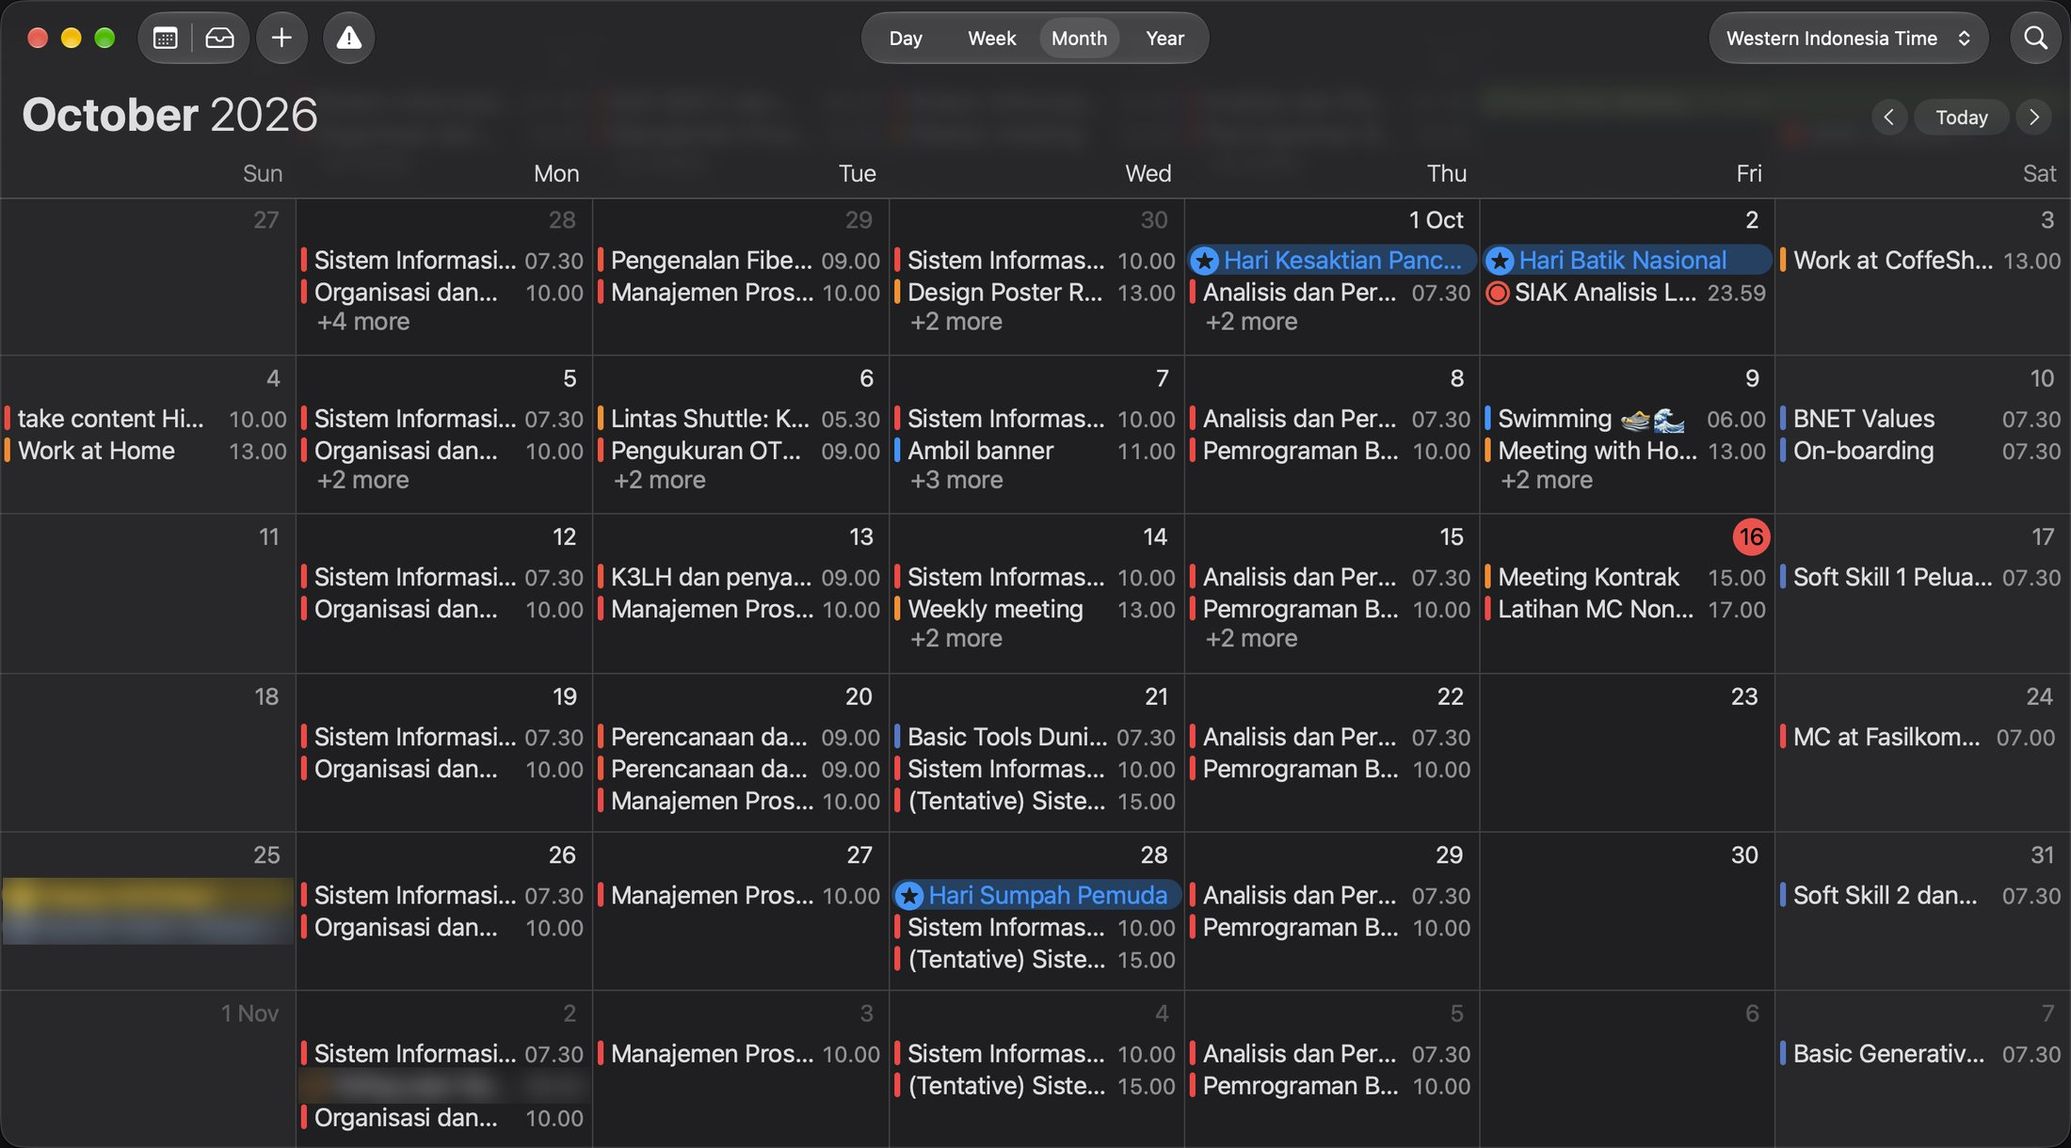
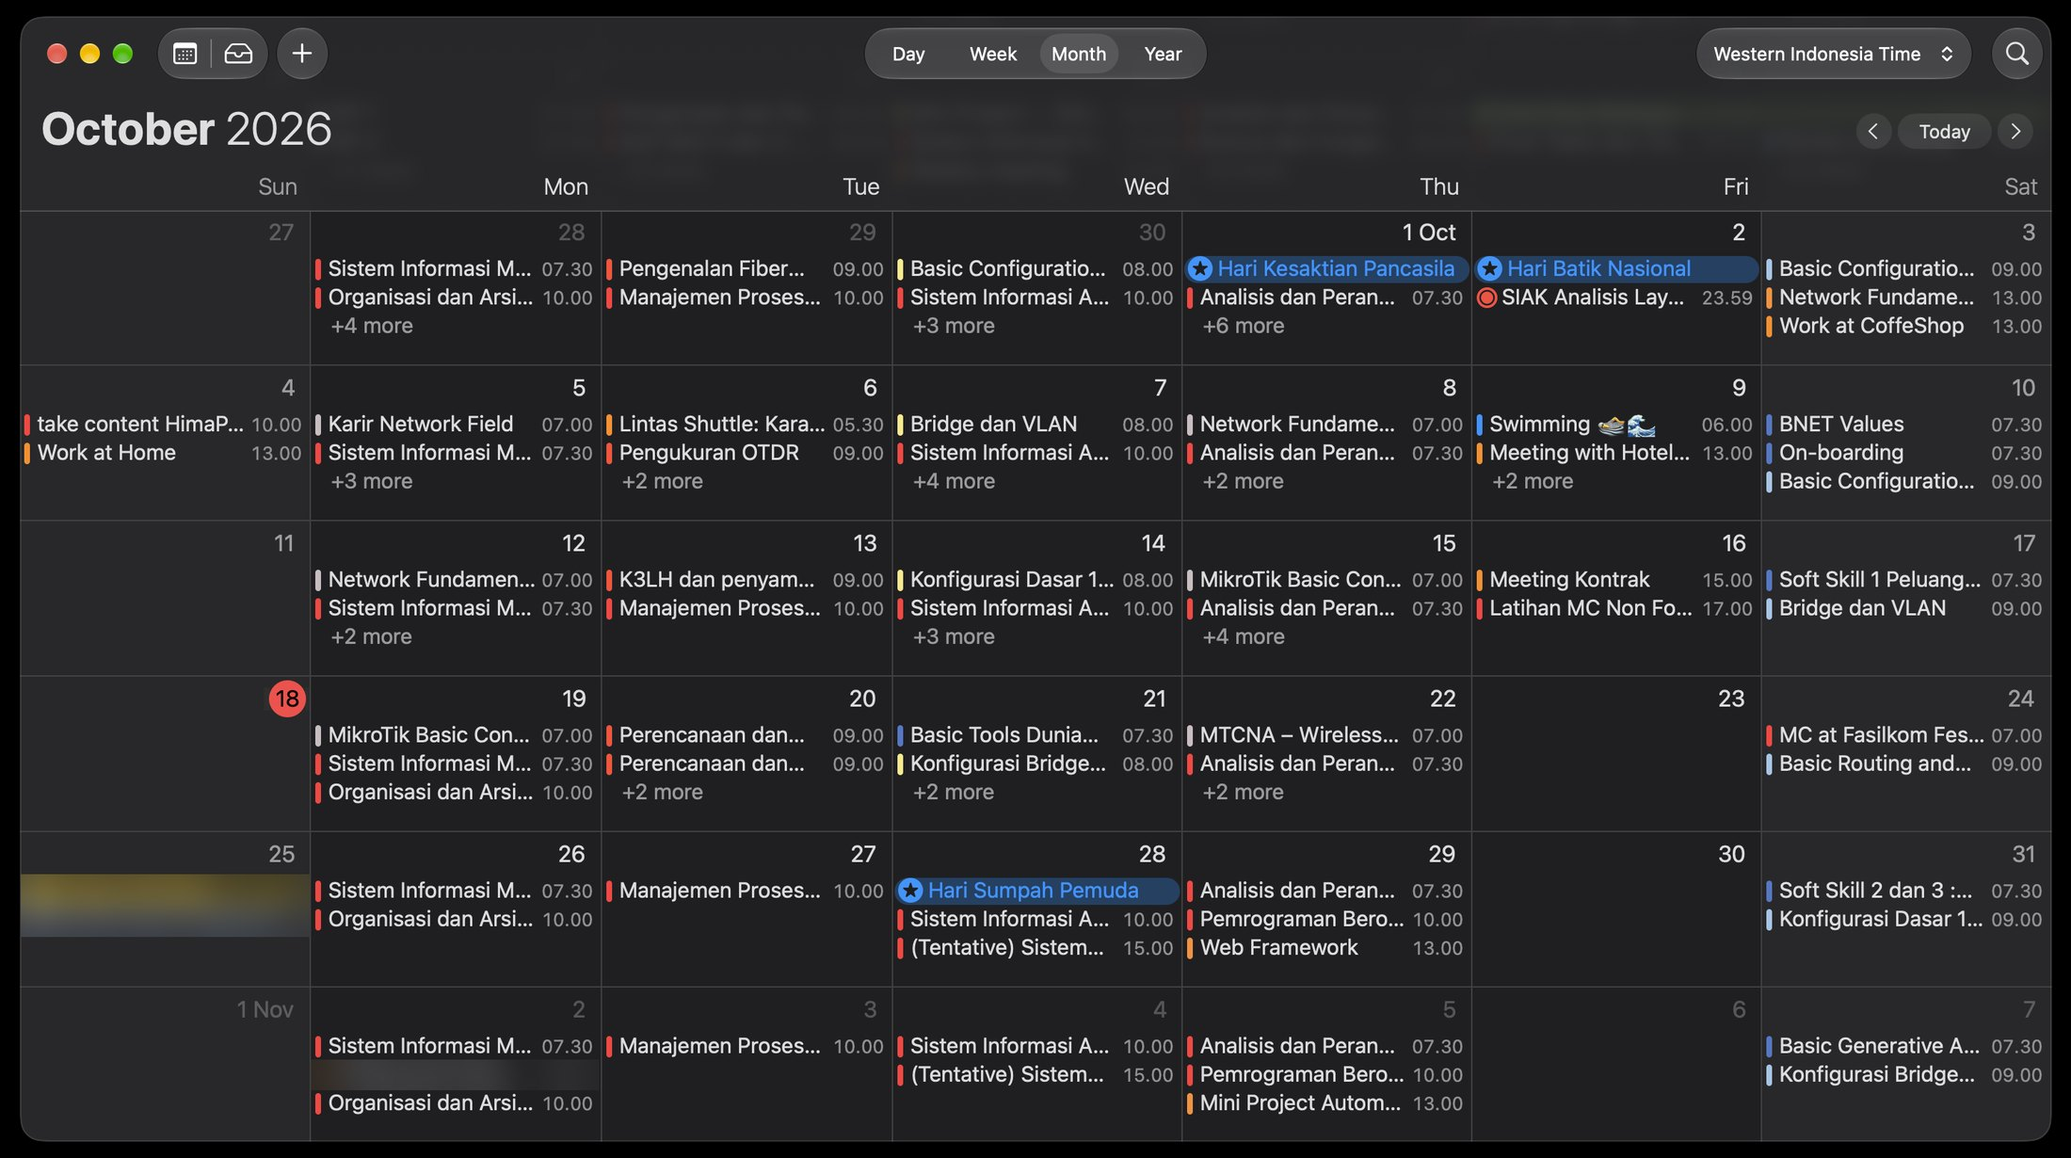
Pakai kalender baru dan samakan warna kegiatan dengan kalender asli
- 89 item dari screenshot terbaru (termasuk Konfigurasi, MikroTik, Web Framework, dll) dengan warna asli: merah, oranye, kuning, putih, biru, biru muda
- Item pribadi (ulang tahun, ToPayLater) tetap diblur di kalender dan di gambar lightbox
- Legend jadi satu: merah = jadwal kampus, yang berkilau

Claude-Session: https://claude.ai/code/session_013Twnaec511EJFNemk4TEjW

Changed region(s): [[0.0, 0.0, 1.0, 1.0], [0.2473, 0.4361, 0.2782, 0.4672]]

diff --git a/index.html b/index.html
@@ -145,8 +145,8 @@
             <div class="k">01</div>
             <h3>Semua yang dilakuin di hari H sudah direncanakan.</h3>
             <p>Memang ribet, but it works for me. Saya jadi tetap bisa jalan paralel antara prioritas utama saya, yaitu kuliah, dengan kerjaan, project, ngonten, dan keorganisasian.</p>
-            <div class="week"><span class="k1 shine">Kuliah</span><span class="k2">Kerja</span><span class="k3">Event</span><span class="k4">Olahraga</span></div>
-            <p class="planhint">Yang berkilau itu jadwal ngampus, prioritas utama saya.</p>
+            <div class="week"><span class="c-red shine">Kampus</span></div>
+            <p class="planhint">Yang merah dan berkilau itu jadwal ngampus, prioritas utama saya.</p>
           </div>
       <div class="calstage" id="calStage">
         <div class="calbar">
@@ -157,47 +157,47 @@
           <div class="dow" aria-hidden="true"><span>Sun</span><span>Mon</span><span>Tue</span><span>Wed</span><span>Thu</span><span>Fri</span><span>Sat</span></div>
           <div class="days">
             <div class="cell out" data-i="0"><span class="dn">27</span></div>
-            <div class="cell out" data-i="1"><span class="dn">28</span><span class="ev k1"><b>Sistem Informasi…</b><time>07.30</time></span><span class="ev k1"><b>Organisasi dan…</b><time>10.00</time></span><span class="ev more">+4 more</span></div>
-            <div class="cell out" data-i="2"><span class="dn">29</span><span class="ev k1"><b>Pengenalan Fibe…</b><time>09.00</time></span><span class="ev k1"><b>Manajemen Pros…</b><time>10.00</time></span></div>
-            <div class="cell out" data-i="3"><span class="dn">30</span><span class="ev k1"><b>Sistem Informasi…</b><time>10.00</time></span><span class="ev k2"><b>Design Poster R…</b><time>13.00</time></span><span class="ev more">+2 more</span></div>
-            <div class="cell" data-i="4"><span class="dn">1</span><span class="ev lb0"><b>Hari Kesaktian Pancasila</b></span><span class="ev k1"><b>Analisis dan Per…</b><time>07.30</time></span><span class="ev more">+2 more</span></div>
-            <div class="cell" data-i="5"><span class="dn">2</span><span class="ev lb0"><b>Hari Batik Nasional</b></span><span class="ev k1"><b>SIAK Analisis L…</b><time>23.59</time></span></div>
-            <div class="cell" data-i="6"><span class="dn">3</span><span class="ev k2"><b>Work at CoffeeSh…</b><time>13.00</time></span></div>
-            <div class="cell" data-i="7"><span class="dn">4</span><span class="ev k2"><b>take content Hi…</b><time>10.00</time></span><span class="ev k2"><b>Work at Home</b><time>13.00</time></span></div>
-            <div class="cell" data-i="8"><span class="dn">5</span><span class="ev k1"><b>Sistem Informasi…</b><time>07.30</time></span><span class="ev k1"><b>Organisasi dan…</b><time>10.00</time></span><span class="ev more">+2 more</span></div>
-            <div class="cell" data-i="9"><span class="dn">6</span><span class="ev k2"><b>Lintas Shuttle: K…</b><time>05.30</time></span><span class="ev k1"><b>Pengukuran OT…</b><time>09.00</time></span><span class="ev more">+2 more</span></div>
-            <div class="cell" data-i="10"><span class="dn">7</span><span class="ev k1"><b>Sistem Informasi…</b><time>10.00</time></span><span class="ev k3"><b>Ambil banner</b><time>11.00</time></span><span class="ev more">+3 more</span></div>
-            <div class="cell" data-i="11"><span class="dn">8</span><span class="ev k1"><b>Analisis dan Per…</b><time>07.30</time></span><span class="ev k1"><b>Pemrograman B…</b><time>10.00</time></span></div>
-            <div class="cell" data-i="12"><span class="dn">9</span><span class="ev k4"><b>Swimming 🌊</b><time>06.00</time></span><span class="ev k2"><b>Meeting with Ho…</b><time>13.00</time></span><span class="ev more">+2 more</span></div>
-            <div class="cell" data-i="13"><span class="dn">10</span><span class="ev k3"><b>BNET Values</b><time>07.30</time></span><span class="ev k3"><b>On-boarding</b><time>07.30</time></span></div>
+            <div class="cell out" data-i="1"><span class="dn">28</span><span class="ev c-red"><b>Sistem Informasi M…</b><time>07.30</time></span><span class="ev c-red"><b>Organisasi dan Arsi…</b><time>10.00</time></span><span class="ev more">+4 more</span></div>
+            <div class="cell out" data-i="2"><span class="dn">29</span><span class="ev c-red"><b>Pengenalan Fiber…</b><time>09.00</time></span><span class="ev c-red"><b>Manajemen Proses…</b><time>10.00</time></span></div>
+            <div class="cell out" data-i="3"><span class="dn">30</span><span class="ev c-yellow"><b>Basic Configuratio…</b><time>08.00</time></span><span class="ev c-red"><b>Sistem Informasi A…</b><time>10.00</time></span><span class="ev more">+3 more</span></div>
+            <div class="cell" data-i="4"><span class="dn">1</span><span class="ev lb0"><b>Hari Kesaktian Pancasila</b></span><span class="ev c-red"><b>Analisis dan Peran…</b><time>07.30</time></span><span class="ev more">+6 more</span></div>
+            <div class="cell" data-i="5"><span class="dn">2</span><span class="ev lb0"><b>Hari Batik Nasional</b></span><span class="ev c-red"><b>SIAK Analisis Lay…</b><time>23.59</time></span></div>
+            <div class="cell" data-i="6"><span class="dn">3</span><span class="ev c-lblue"><b>Basic Configuratio…</b><time>09.00</time></span><span class="ev c-orange"><b>Network Fundame…</b><time>13.00</time></span><span class="ev c-orange"><b>Work at CoffeShop</b><time>13.00</time></span></div>
+            <div class="cell" data-i="7"><span class="dn">4</span><span class="ev c-red"><b>take content HimaP…</b><time>10.00</time></span><span class="ev c-orange"><b>Work at Home</b><time>13.00</time></span></div>
+            <div class="cell" data-i="8"><span class="dn">5</span><span class="ev c-white"><b>Karir Network Field</b><time>07.00</time></span><span class="ev c-red"><b>Sistem Informasi M…</b><time>07.30</time></span><span class="ev more">+3 more</span></div>
+            <div class="cell" data-i="9"><span class="dn">6</span><span class="ev c-orange"><b>Lintas Shuttle: Kara…</b><time>05.30</time></span><span class="ev c-red"><b>Pengukuran OTDR</b><time>09.00</time></span><span class="ev more">+2 more</span></div>
+            <div class="cell" data-i="10"><span class="dn">7</span><span class="ev c-yellow"><b>Bridge dan VLAN</b><time>08.00</time></span><span class="ev c-red"><b>Sistem Informasi A…</b><time>10.00</time></span><span class="ev more">+4 more</span></div>
+            <div class="cell" data-i="11"><span class="dn">8</span><span class="ev c-white"><b>Network Fundame…</b><time>07.00</time></span><span class="ev c-red"><b>Analisis dan Peran…</b><time>07.30</time></span><span class="ev more">+2 more</span></div>
+            <div class="cell" data-i="12"><span class="dn">9</span><span class="ev c-blue"><b>Swimming 🌊</b><time>06.00</time></span><span class="ev c-orange"><b>Meeting with Hotel…</b><time>13.00</time></span><span class="ev more">+2 more</span></div>
+            <div class="cell" data-i="13"><span class="dn">10</span><span class="ev c-blue"><b>BNET Values</b><time>07.30</time></span><span class="ev c-blue"><b>On-boarding</b><time>07.30</time></span><span class="ev c-lblue"><b>Basic Configuratio…</b><time>09.00</time></span></div>
             <div class="cell" data-i="14"><span class="dn">11</span></div>
-            <div class="cell" data-i="15"><span class="dn">12</span><span class="ev k1"><b>Sistem Informasi…</b><time>07.30</time></span><span class="ev k1"><b>Organisasi dan…</b><time>10.00</time></span></div>
-            <div class="cell" data-i="16"><span class="dn">13</span><span class="ev k1"><b>K3LH dan penya…</b><time>09.00</time></span><span class="ev k1"><b>Manajemen Pros…</b><time>10.00</time></span></div>
-            <div class="cell" data-i="17"><span class="dn">14</span><span class="ev k1"><b>Sistem Informasi…</b><time>10.00</time></span><span class="ev k2"><b>Weekly meeting</b><time>13.00</time></span><span class="ev more">+2 more</span></div>
-            <div class="cell" data-i="18"><span class="dn">15</span><span class="ev k1"><b>Analisis dan Per…</b><time>07.30</time></span><span class="ev k1"><b>Pemrograman B…</b><time>10.00</time></span><span class="ev more">+2 more</span></div>
-            <div class="cell" data-i="19"><span class="dn">16</span><span class="ev k2"><b>Meeting Kontrak</b><time>15.00</time></span><span class="ev k3"><b>Latihan MC Non…</b><time>17.00</time></span></div>
-            <div class="cell" data-i="20"><span class="dn">17</span><span class="ev k3"><b>Soft Skill 1 Pelua…</b><time>07.30</time></span></div>
+            <div class="cell" data-i="15"><span class="dn">12</span><span class="ev c-white"><b>Network Fundame…</b><time>07.00</time></span><span class="ev c-red"><b>Sistem Informasi M…</b><time>07.30</time></span><span class="ev more">+2 more</span></div>
+            <div class="cell" data-i="16"><span class="dn">13</span><span class="ev c-red"><b>K3LH dan penyam…</b><time>09.00</time></span><span class="ev c-red"><b>Manajemen Proses…</b><time>10.00</time></span></div>
+            <div class="cell" data-i="17"><span class="dn">14</span><span class="ev c-yellow"><b>Konfigurasi Dasar 1…</b><time>08.00</time></span><span class="ev c-red"><b>Sistem Informasi A…</b><time>10.00</time></span><span class="ev more">+3 more</span></div>
+            <div class="cell" data-i="18"><span class="dn">15</span><span class="ev c-white"><b>MikroTik Basic Con…</b><time>07.00</time></span><span class="ev c-red"><b>Analisis dan Peran…</b><time>07.30</time></span><span class="ev more">+4 more</span></div>
+            <div class="cell" data-i="19"><span class="dn">16</span><span class="ev c-orange"><b>Meeting Kontrak</b><time>15.00</time></span><span class="ev c-red"><b>Latihan MC Non Fo…</b><time>17.00</time></span></div>
+            <div class="cell" data-i="20"><span class="dn">17</span><span class="ev c-blue"><b>Soft Skill 1 Peluang…</b><time>07.30</time></span><span class="ev c-lblue"><b>Bridge dan VLAN</b><time>09.00</time></span></div>
             <div class="cell" data-i="21"><span class="dn">18</span></div>
-            <div class="cell" data-i="22"><span class="dn">19</span><span class="ev k1"><b>Sistem Informasi…</b><time>07.30</time></span><span class="ev k1"><b>Organisasi dan…</b><time>10.00</time></span></div>
-            <div class="cell" data-i="23"><span class="dn">20</span><span class="ev k1"><b>Perencanaan da…</b><time>09.00</time></span><span class="ev k1"><b>Perencanaan da…</b><time>09.00</time></span><span class="ev k1"><b>Manajemen Pros…</b><time>10.00</time></span></div>
-            <div class="cell" data-i="24"><span class="dn">21</span><span class="ev k3"><b>Basic Tools Duni…</b><time>07.30</time></span><span class="ev k1"><b>Sistem Informasi…</b><time>10.00</time></span><span class="ev k1"><b>(Tentative) Siste…</b><time>15.00</time></span></div>
-            <div class="cell" data-i="25"><span class="dn">22</span><span class="ev k1"><b>Analisis dan Per…</b><time>07.30</time></span><span class="ev k1"><b>Pemrograman B…</b><time>10.00</time></span></div>
+            <div class="cell" data-i="22"><span class="dn">19</span><span class="ev c-white"><b>MikroTik Basic Con…</b><time>07.00</time></span><span class="ev c-red"><b>Sistem Informasi M…</b><time>07.30</time></span><span class="ev c-red"><b>Organisasi dan Arsi…</b><time>10.00</time></span></div>
+            <div class="cell" data-i="23"><span class="dn">20</span><span class="ev c-red"><b>Perencanaan dan…</b><time>09.00</time></span><span class="ev c-red"><b>Perencanaan dan…</b><time>09.00</time></span><span class="ev more">+2 more</span></div>
+            <div class="cell" data-i="24"><span class="dn">21</span><span class="ev c-blue"><b>Basic Tools Dunia…</b><time>07.30</time></span><span class="ev c-yellow"><b>Konfigurasi Bridge…</b><time>08.00</time></span><span class="ev more">+2 more</span></div>
+            <div class="cell" data-i="25"><span class="dn">22</span><span class="ev c-white"><b>MTCNA – Wireless…</b><time>07.00</time></span><span class="ev c-red"><b>Analisis dan Peran…</b><time>07.30</time></span><span class="ev more">+2 more</span></div>
             <div class="cell" data-i="26"><span class="dn">23</span></div>
-            <div class="cell" data-i="27"><span class="dn">24</span><span class="ev k3"><b>MC at Fasilkom…</b><time>07.00</time></span></div>
-            <div class="cell" data-i="28"><span class="dn">25</span><span class="ev k2 bl" aria-hidden="true"><b>Kegiatan pribadi</b></span><span class="ev k1 bl" aria-hidden="true"><b>Kegiatan pribadi</b></span></div>
-            <div class="cell" data-i="29"><span class="dn">26</span><span class="ev k1"><b>Sistem Informasi…</b><time>07.30</time></span><span class="ev k1"><b>Organisasi dan…</b><time>10.00</time></span></div>
-            <div class="cell" data-i="30"><span class="dn">27</span><span class="ev k1"><b>Manajemen Pros…</b><time>10.00</time></span></div>
-            <div class="cell" data-i="31"><span class="dn">28</span><span class="ev lb0"><b>Hari Sumpah Pemuda</b></span><span class="ev k1"><b>Sistem Informasi…</b><time>10.00</time></span><span class="ev k1"><b>(Tentative) Siste…</b><time>15.00</time></span></div>
-            <div class="cell" data-i="32"><span class="dn">29</span><span class="ev k1"><b>Analisis dan Per…</b><time>07.30</time></span><span class="ev k1"><b>Pemrograman B…</b><time>10.00</time></span></div>
+            <div class="cell" data-i="27"><span class="dn">24</span><span class="ev c-red"><b>MC at Fasilkom Fes…</b><time>07.00</time></span><span class="ev c-lblue"><b>Basic Routing and…</b><time>09.00</time></span></div>
+            <div class="cell" data-i="28"><span class="dn">25</span><span class="ev c-yellow bl" aria-hidden="true"><b>Kegiatan pribadi</b></span><span class="ev c-lblue bl" aria-hidden="true"><b>Kegiatan pribadi</b></span></div>
+            <div class="cell" data-i="29"><span class="dn">26</span><span class="ev c-red"><b>Sistem Informasi M…</b><time>07.30</time></span><span class="ev c-red"><b>Organisasi dan Arsi…</b><time>10.00</time></span></div>
+            <div class="cell" data-i="30"><span class="dn">27</span><span class="ev c-red"><b>Manajemen Proses…</b><time>10.00</time></span></div>
+            <div class="cell" data-i="31"><span class="dn">28</span><span class="ev lb0"><b>Hari Sumpah Pemuda</b></span><span class="ev c-red"><b>Sistem Informasi A…</b><time>10.00</time></span><span class="ev c-red"><b>(Tentative) Sistem…</b><time>15.00</time></span></div>
+            <div class="cell" data-i="32"><span class="dn">29</span><span class="ev c-red"><b>Analisis dan Peran…</b><time>07.30</time></span><span class="ev c-red"><b>Pemrograman Bero…</b><time>10.00</time></span><span class="ev c-orange"><b>Web Framework</b><time>13.00</time></span></div>
             <div class="cell" data-i="33"><span class="dn">30</span></div>
-            <div class="cell" data-i="34"><span class="dn">31</span><span class="ev k3"><b>Soft Skill 2 dan…</b><time>07.30</time></span></div>
+            <div class="cell" data-i="34"><span class="dn">31</span><span class="ev c-blue"><b>Soft Skill 2 dan 3 :…</b><time>07.30</time></span><span class="ev c-lblue"><b>Konfigurasi Dasar 1…</b><time>09.00</time></span></div>
             <div class="cell out" data-i="35"><span class="dn">1 Nov</span></div>
-            <div class="cell out" data-i="36"><span class="dn">2</span><span class="ev k1"><b>Sistem Informasi…</b><time>07.30</time></span><span class="ev k2 bl" aria-hidden="true"><b>Kegiatan pribadi</b></span><span class="ev k1"><b>Organisasi dan…</b><time>10.00</time></span></div>
-            <div class="cell out" data-i="37"><span class="dn">3</span><span class="ev k1"><b>Manajemen Pros…</b><time>10.00</time></span></div>
-            <div class="cell out" data-i="38"><span class="dn">4</span><span class="ev k1"><b>Sistem Informasi…</b><time>10.00</time></span><span class="ev k1"><b>(Tentative) Siste…</b><time>15.00</time></span></div>
-            <div class="cell out" data-i="39"><span class="dn">5</span><span class="ev k1"><b>Analisis dan Per…</b><time>07.30</time></span><span class="ev k1"><b>Pemrograman B…</b><time>10.00</time></span></div>
+            <div class="cell out" data-i="36"><span class="dn">2</span><span class="ev c-red"><b>Sistem Informasi M…</b><time>07.30</time></span><span class="ev c-orange bl" aria-hidden="true"><b>Kegiatan pribadi</b></span><span class="ev c-red"><b>Organisasi dan Arsi…</b><time>10.00</time></span></div>
+            <div class="cell out" data-i="37"><span class="dn">3</span><span class="ev c-red"><b>Manajemen Proses…</b><time>10.00</time></span></div>
+            <div class="cell out" data-i="38"><span class="dn">4</span><span class="ev c-red"><b>Sistem Informasi A…</b><time>10.00</time></span><span class="ev c-red"><b>(Tentative) Sistem…</b><time>15.00</time></span></div>
+            <div class="cell out" data-i="39"><span class="dn">5</span><span class="ev c-red"><b>Analisis dan Peran…</b><time>07.30</time></span><span class="ev c-red"><b>Pemrograman Bero…</b><time>10.00</time></span><span class="ev c-orange"><b>Mini Project Autom…</b><time>13.00</time></span></div>
             <div class="cell out" data-i="40"><span class="dn">6</span></div>
-            <div class="cell out" data-i="41"><span class="dn">7</span><span class="ev k3"><b>Basic Generativ…</b><time>07.30</time></span></div>
+            <div class="cell out" data-i="41"><span class="dn">7</span><span class="ev c-blue"><b>Basic Generative A…</b><time>07.30</time></span><span class="ev c-lblue"><b>Konfigurasi Bridge…</b><time>09.00</time></span></div>
           </div>
         </div>
       </div>

diff --git a/css/style.css b/css/style.css
@@ -937,16 +937,47 @@ h3 {
   }
 }
 
+/* warna kegiatan disamakan persis dengan kalender asli */
+.c-red {
+  background: #ed4a44;
+  color: #fff;
+}
+
+.c-orange {
+  background: #f19134;
+  color: #1d1d1f;
+}
+
+.c-yellow {
+  background: #f8e990;
+  color: #1d1d1f;
+}
+
+.c-white {
+  background: #c8bebf;
+  color: #1d1d1f;
+}
+
+.c-blue {
+  background: #5777c3;
+  color: #fff;
+}
+
+.c-lblue {
+  background: #a7c5e4;
+  color: #1d1d1f;
+}
+
 /* shine di jadwal ngampus (kuliah) = prioritas utama; muncul setelah kalendernya rapi */
-.k1.shine,
-.ev.k1 {
+.shine,
+.ev.c-red {
   position: relative;
   overflow: hidden;
   box-shadow: 0 0 10px rgba(80, 125, 255, calc((var(--cp, 1) - .9) * 5));
 }
 
-.k1.shine::after,
-.ev.k1::after {
+.shine::after,
+.ev.c-red::after {
   content: "";
   position: absolute;
   inset: 0;
@@ -965,7 +996,7 @@ h3 {
 .cell:nth-child(7n+5) .ev::after { animation-delay: .6s; }
 .cell:nth-child(7n+6) .ev::after { animation-delay: .75s; }
 .cell:nth-child(7n) .ev::after { animation-delay: .9s; }
-.ev.k1 + .ev.k1::after { animation-delay: .2s; }
+.ev.c-red + .ev.c-red::after { animation-delay: .2s; }
 
 @keyframes shine {
   0%, 55% {
@@ -1097,8 +1128,8 @@ h3 {
 }
 
 .ev.lb0 {
-  background: rgba(110, 150, 255, .2);
-  color: #a9c1ff;
+  background: #243d63;
+  color: #4a90f0;
 }
 
 .ev.more {
@@ -1910,8 +1941,8 @@ h3 {
     opacity: 1
   }
 
-  .k1.shine::after,
-  .ev.k1::after {
+  .shine::after,
+  .ev.c-red::after {
     display: none
   }
 
